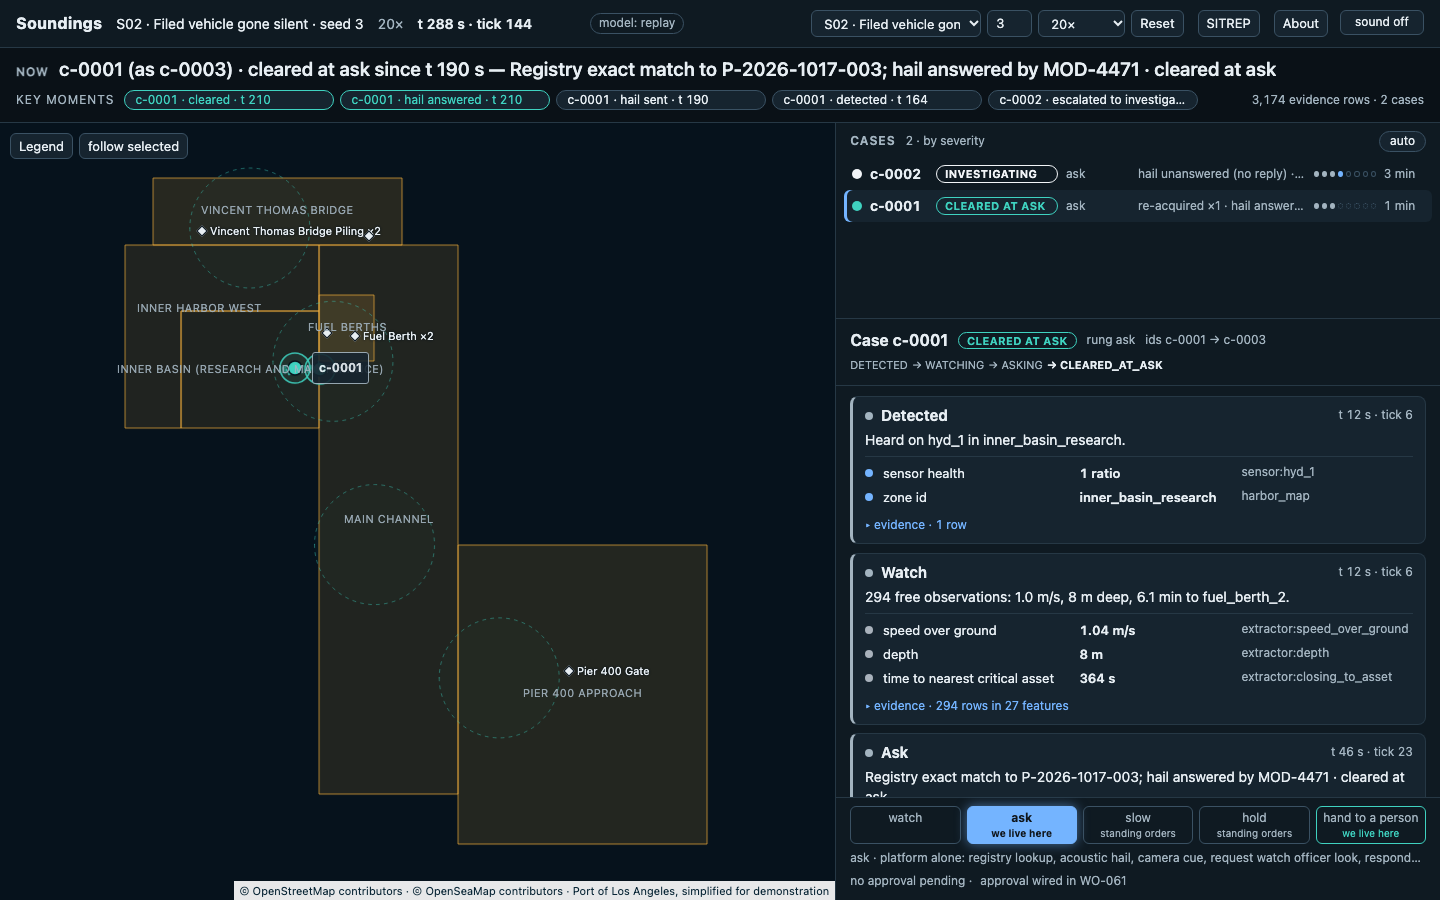
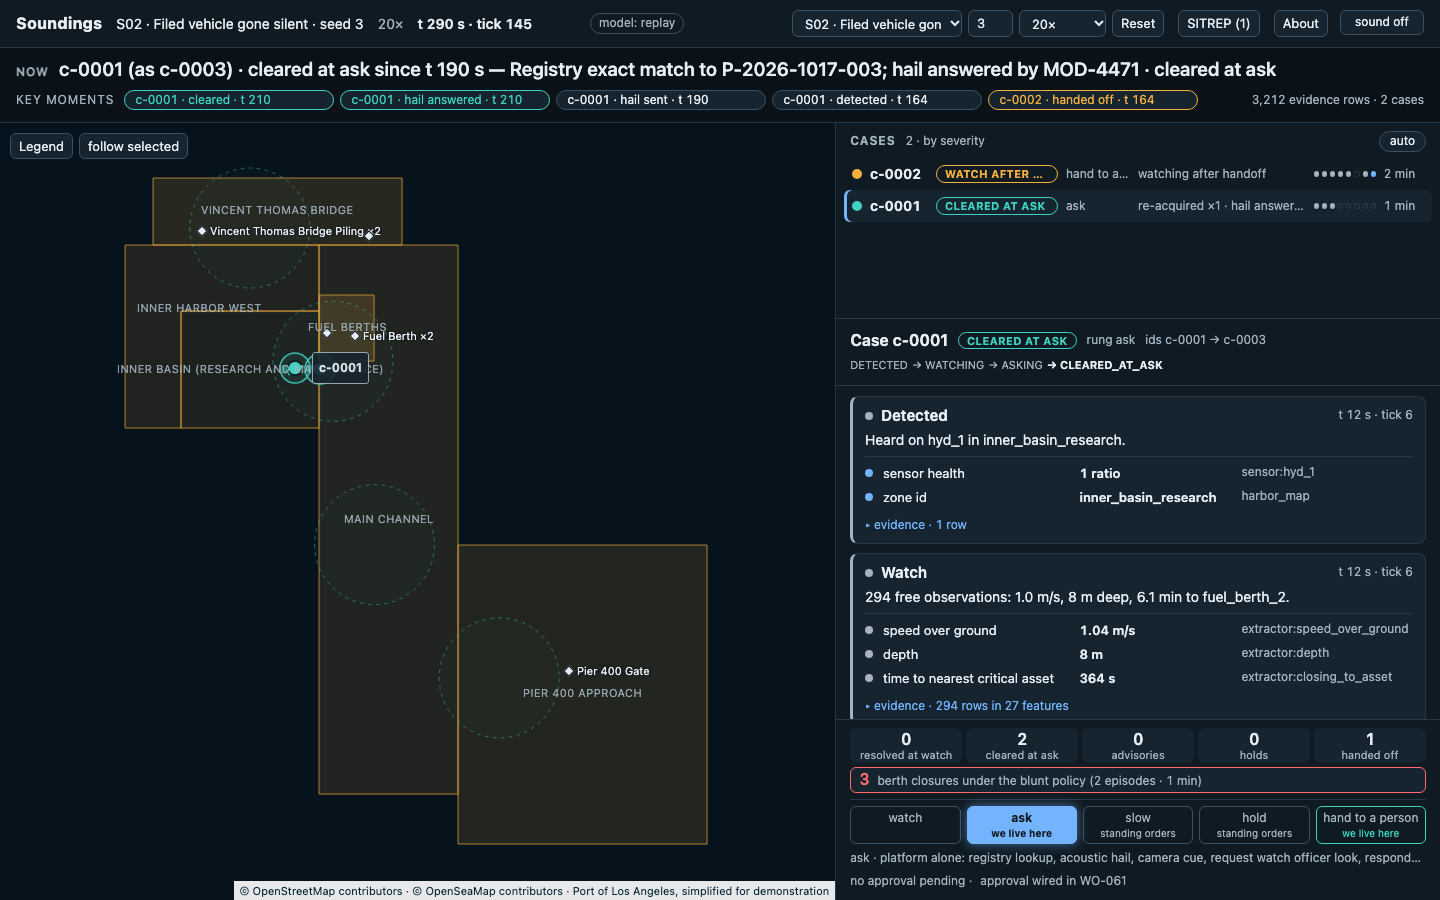
docs: STATE sweep, hourly STATUS line, README screenshots over runner v3

diff --git a/scripts/readme_shots.py b/scripts/readme_shots.py
@@ -113,10 +113,13 @@ def capture(base: str, out: Path, executable_path: str | None) -> None:
 
         page = _page(browser)
         page.goto(f"{base}/?scenario=S05&seed=11&speed=20&tiles=off")
+        # Over runner v3 (WO-060 part B) the auto-selected case is the re-acquired lineage
+        # on the ladder, so pin the case that is investigating (c-0006 at about t 1,150 s).
+        row = "[data-testid=case-row]:has-text('INVESTIGATING')"
+        page.wait_for_selector(row, timeout=120_000)
+        page.locator(row).first.click()  # pin the case so it holds still
         step = "[data-testid=case-view] [data-step=investigate][data-status=current]"
-        page.wait_for_selector(step, timeout=120_000)
-        page.wait_for_timeout(1_500)
-        page.locator("[data-testid=case-row]").first.click()  # pin the case so it holds still
+        page.wait_for_selector(step, timeout=15_000)
         page.wait_for_timeout(400)
         page.locator(step).first.evaluate("el => el.scrollIntoView({block: 'start'})")
         page.wait_for_timeout(400)

diff --git a/docs/STATE.md b/docs/STATE.md
@@ -3,10 +3,10 @@
 Last updated: 2026-10-17 06:38 PDT (truth-first rewrite; Phase 7 'ATC at scale' + eval/model-run directives accepted)
 
 ## Where we are (2026-10-17 06:38 PDT)
-- **Merged on `main`** (CI green, ≈2,300 tests, zero paid runs; 54 PRs by 11:45 PDT): Phases 0–4 complete; Phase 5 WO-050, WO-051 A + B1; Phase 6 WO-060 A + design pass (#58), WO-062 A + presenter mode (#35); Phase 7 WO-081 (#34), WO-082 (#46), WO-083 (#44), WO-084 (#31), WO-086 (#62), WO-087 (#47), WO-088 A/B/C (#53/#54/#51), WO-089 core + UI (#40/#49); WO-093 fixture harness (#61) + transport JSON parse fix (#68); WO-094 re-acquisition carry-over (#60: S04 ends RESOLVED_BENIGN by lineage, catalog verifier passes every scenario, 0 xfails); deck/Devpost (#30), README (#29), mentor brief (#28); boundary + no-external-references (#45); pytest-xdist CI (#67, CI ≈4 min).
-- **PRs open, CI/rebase cycling:** WO-080 BT-01 part A (#33) and part B (#55), WO-089 code half (#57), WO-094 re-acquisition carry-over (#60), WO-051 part B eval sweeps (#63), WO-060 part B (#64), WO-085 surge triage (#65), WO-088 part D responder integration (#66). CI timed out at the 15-minute job limit once BT-01 switched on slow tests; pytest-xdist (#67) brought a run down to about four minutes, and every open PR is re-based or re-merged onto main to pick it up.
-- **Running:** agents on WO-051B, WO-060B (then WO-061), WO-085, WO-088D, WO-094, WO-089 code half; the coordinator babysits PRs whose agents have returned (#33, #55, #57): merge `main` in when behind, never rebase a branch that carries merge commits.
-- **Not started:** WO-061 judge panel / approval path / QR / badge (after WO-060B), WO-062 part B recording (after Wave D merges; render deadline 20:00), Twist 2 and 3 (notices not yet received).
+- **Merged on `main`** (CI green, ≈2,300 tests, zero paid runs; 54 PRs by 11:45 PDT): Phases 0–4 complete; Phase 5 WO-050, WO-051 A + B1; Phase 6 WO-060 A + design pass (#58), WO-062 A + presenter mode (#35); Phase 7 WO-081 (#34), WO-082 (#46), WO-083 (#44), WO-084 (#31), WO-086 (#62), WO-087 (#47), WO-088 A/B/C (#53/#54/#51), WO-089 core + UI (#40/#49); WO-093 fixture harness (#61) + transport JSON parse fix (#68); WO-060 part B run engine over runner v3 (#64); WO-080 BT-01 part A (#33); WO-094 re-acquisition carry-over (#60: S04 ends RESOLVED_BENIGN by lineage, catalog verifier passes every scenario, 0 xfails); deck/Devpost (#30), README (#29), mentor brief (#28); boundary + no-external-references (#45); pytest-xdist CI (#67, CI ≈4 min).
+- **PRs open, CI/rebase cycling:** WO-095 (#73), this docs PR (#71). CI timed out at the 15-minute job limit once BT-01 switched on slow tests; pytest-xdist (#67) brought a run down to about four minutes, and every open PR is re-based or re-merged onto main to pick it up.
+- **Running:** the WO-062B recording agent (launched 16:21); the coordinator babysits the remaining PRs (#73 WO-095, #71 this docs PR): merge `main` in when behind, never rebase a branch that carries merge commits.
+- **Not started:** Twist 2 and 3 (notices not yet received).
 - **Incident:** the Mac slept 01:52–05:37 PDT (lid closed on battery); nothing on `main` was affected. Caffeinate runs until 17:00 PDT; keep the lid open and plug in.
 - Lens declared at submission: Crisis Mitigation (Track 01 Marine, NULL Labs).
 
@@ -46,25 +46,25 @@ Clock: submission 10:00 PM; freeze non-demo work 6:00 PM; hard freeze 8:30 PM; f
 | 042 | sitrep + handoff + audit | merged (part A #18, 77e5b48; part B #37) | wo/042b-sitrep-writer-handoff (part B) | #37 | squash on merge | 1734 passed after rebase (part B: test_sitrep +17, test_audit +4) |
 | 043 | watch after handoff | merged (part A #26 8fee1bb; part B runner v3 #50 31c0223: approvals path, catalog verifier; S04 catalog verify strict xfail → WO-094) | wo/043b-runner-v3 | #26, part B PR | part A 8fee1bb; part B squash | part B: test_runner_v3 20, test_catalog_expected 11 (S04 strict xfail), +9 in driver/watch tests |
 | 050 | baselines | merged | wo/050-baselines | #13 | f2e8bc3 | 979 passed (29 baselines) |
-| 051 | eval harness | part A merged (#24); part B1 merged (#43); part B (soundings policy over runner v3, sweeps 2a-2e, per-contact table, `make eval` ~2 min) PR open (auto-merge); >= 70% at-or-below-ask reads 66.7% on main (S04 seeds 1-2, S08 seeds 1, 2, 5), xfail with the real number | wo/051-eval-harness | see PR | squash on merge | see PR (part B: test_soundings_policy, test_eval_llm_diff, test_eval part B) |
-| 060 | watch-officer UI | part A merged; design pass B1 merged; part B (runner v3 source `v3`, investigation/posterior/recommendation/ladder/approval/SITREP events, stage live wiring) PR open (auto-merge) | wo/060a-ui-core; wo/060b3-design-pass; wo/060-watch-officer-ui | #20, #58, part B see PR | cf94706 (B1) | part B: 2307 passed, 23 skipped, 3 xfailed; test_stream_v3 22, test_stage_live_wiring 5; e2e (SOUNDINGS_E2E=1) 5 passed incl. test_v3_case_view 3, design-pass CLS 0.0049 |
-| 061 | judge panel | PR open (auto-merge on green) 2026-10-17 13:25 PDT; stepped source (runner v3, a person approves), POST /api/runs/{id}/approve + /decline, approval card (scope, time left, Approve / Decline), judge panel (place, behavior, acoustic, Go; prepare-while-choosing for the 2 s follow), POST /api/inject + /api/inject/prepare, QR to the registry form, plan layer + proposal card (WO-082), `make dev-lan`, presenter actions file_plan_qr / judge_drops_rogue | wo/061-judge-panel | see branch PR | | test_inject 30, test_api_inject 10, test_api_approve 8, test_stepped_source 7, test_api_qr 8; e2e (SOUNDINGS_E2E=1) approval 1, judge panel 1, judge QR 2 |
-| 062 | demo runner | part A + presenter mode merged; recording (part B) pending | wo/062a-demo-runner-core; wo/062p-presenter-mode | #21; WO-062P see branch PR | 39c22eb (part A) | part A 53; WO-062P: test_demo_script 29, test_presenter_api 5, test_sfx 12, e2e presenter smoke 1 |
-| 080 | Busy Tuesday scenario BT-01 | part A merged (#33); part B (tick skipping, runtime, determinism) in PR | wo/080-busy-tuesday-b | #33 + part B PR | see #33 | part A 56 tests; part B +28 tick-skipping, +6 BT-01, +3 rules; BT-01 33.7 s headless |
+| 051 | eval harness | merged (part A #24; B1 #43; part B eval over runner v3 #63 5de1002: soundings policy, sweeps, seeds, scale, report; `make eval` 3 min 55 s) | wo/051-eval-harness | see PR | squash on merge | see PR (part B: test_soundings_policy, test_eval_llm_diff, test_eval part B) |
+| 060 | watch-officer UI | merged (part A #20; design pass #58; part B run engine over runner v3 #64 2dee825) | wo/060a-ui-core; wo/060b3-design-pass; wo/060-watch-officer-ui | #20, #58, part B see PR | cf94706 (B1) | part B: 2307 passed, 23 skipped, 3 xfailed; test_stream_v3 22, test_stage_live_wiring 5; e2e (SOUNDINGS_E2E=1) 5 passed incl. test_v3_case_view 3, design-pass CLS 0.0049 |
+| 061 | judge panel | merged (#72 cb916d5, 16:20 PDT): approval path (UiApprover, stepped source), judge-injection panel, QR plan filing with proposal card, model badge | wo/061-judge-panel | see branch PR | | test_inject 30, test_api_inject 10, test_api_approve 8, test_stepped_source 7, test_api_qr 8; e2e (SOUNDINGS_E2E=1) approval 1, judge panel 1, judge QR 2 |
+| 062 | demo runner | part A + presenter mode merged; part B recording agent launched 16:21 PDT (render deadline 20:00) | wo/062a-demo-runner-core; wo/062p-presenter-mode | #21; WO-062P see branch PR | 39c22eb (part A) | part A 53; WO-062P: test_demo_script 29, test_presenter_api 5, test_sfx 12, e2e presenter smoke 1 |
+| 080 | Busy Tuesday scenario BT-01 | part A merged (#33 368d00f, 12:30 PDT); part B PR #55 open (tick skipping, --plans db, runtime < 60 s): its CI run reached 85 % at the 15-minute job cut twice, so #70 raises the job timeout to 30 min and #55 re-runs after it. BT-01: 39 filed jobs CLEARED_AT_ASK with 0 interruptions, rogue HANDED_OFF, seed-7 runs byte-identical. WO-082's slot test on the real BT-01 found every component INFEASIBLE (filing windows padded 5 min): accepted as the honest refusal, WO-095 widens the windows. | wo/080-busy-tuesday-b | #33 + part B PR | see #33 | part A 56 tests; part B +28 tick-skipping, +6 BT-01, +3 rules; BT-01 33.7 s headless |
 | 080 | Busy Tuesday scenario BT-01 | part A in PR (schema, vessel_transit + AIS feed, generator, BT-01, grading); part B next | wo/080-busy-tuesday | see branch PR | | part A: 56 new tests (vessel 28, generate 13, busy_tuesday 6, rules 9) |
-| 081 | conflict detection at filing | PR open (auto-merge on green); JobType via local adapter until WO-080 part A | wo/081-conflict-detection | see branch PR | | 1546 passed, 1 skipped (52 WO-081 tests) |
-| 082 | slot proposal (CP-SAT) | PR open (auto-merge on green) | wo/082-slot-proposal | see PR | | 1823 passed, 2 skipped (38 WO-082 tests: test_slots 20, test_slots_api 12, test_slots_integration 2, e2e 1, +3 START_BOUNDS_INVALID reject cases) |
-| 083 | separation advisories (CPA/TCPA) | PR open (auto-merge) | wo/083-separation-advisories | see PR | | make check green; 25 WO-083 tests (BT-01 cases skip until WO-080 part A merges) |
-| 084 | projected tracks (Kalman) | PR open (flag flipped to kalman for build_evidence; runner stays window) | wo/084-projected-tracks | see PR | | 1436 passed (24 test_kalman*) |
+| 081 | conflict detection at filing | merged (#34 a03ec4b); JobTypeName local adapter → swap for `schemas.enums.JobType` once BT-01 (#33) lands | wo/081-conflict-detection | see branch PR | | 1546 passed, 1 skipped (52 WO-081 tests) |
+| 082 | slot proposal (CP-SAT) | merged (#46 5d04a02) | wo/082-slot-proposal | see PR | | 1823 passed, 2 skipped (38 WO-082 tests: test_slots 20, test_slots_api 12, test_slots_integration 2, e2e 1, +3 START_BOUNDS_INVALID reject cases) |
+| 083 | separation advisories (CPA/TCPA) | merged (#44 21194f6); BT-01 separation tests un-skip when #33 lands | wo/083-separation-advisories | see PR | | make check green; 25 WO-083 tests (BT-01 cases skip until WO-080 part A merges) |
+| 084 | projected tracks (Kalman) | merged (#31 73b79c4; flag kalman for build_evidence, runner stays window) | wo/084-projected-tracks | see PR | | 1436 passed (24 test_kalman*) |
 | 080 | Busy Tuesday scenario BT-01 | part A PR #33 and part B PR #55 open (auto-merge on green; agent returned 11:33 PDT, coordinator babysits). BT-01: 39 filed jobs CLEARED_AT_ASK with 0 interruptions, rogue HANDED_OFF, seed-7 runs byte-identical, < 60 s with tick skipping. CI needed pytest-xdist (#67) to finish inside the 15-minute limit; after WO-094 merged, WO-082's BT-01 slot test showed every component INFEASIBLE (filing windows padded 5 min, no plan can move): test now accepts the honest refusal, follow-up WO-095 widens the windows. | wo/080-busy-tuesday | | | |
 | 081 | conflict detection at filing | merged (#34 a03ec4b); JobTypeName local adapter → swap for `schemas.enums.JobType` once BT-01 (#33) lands | wo/081-conflict-detection | see branch PR | | 1546 passed, 1 skipped (52 WO-081 tests) |
 | 082 | slot proposal (CP-SAT) | merged (#46 5d04a02) | wo/082-slot-proposal | see PR | | 1823 passed, 2 skipped (38 WO-082 tests: test_slots 20, test_slots_api 12, test_slots_integration 2, e2e 1, +3 START_BOUNDS_INVALID reject cases) |
 | 083 | separation advisories (CPA/TCPA) | merged (#44 21194f6); BT-01 separation tests un-skip when #33 lands | wo/083-separation-advisories | see PR | | make check green; 25 WO-083 tests (BT-01 cases skip until WO-080 part A merges) |
 | 084 | projected tracks (Kalman) | merged (#31 73b79c4; flag kalman for build_evidence, runner stays window) | wo/084-projected-tracks | see PR | | 1436 passed (24 test_kalman*) |
-| 085 | surge triage queue | PR open (auto-merge on green); triage opt-in (`ScenarioRunner(triage=...)`, off by default, catalog byte-identical); BT-01 not on main yet, exit tests run on the synthetic stand-in `tests/fixtures/triage_bt_synthetic.yaml`; interruptions/h clause recorded as xfail (open question) | wo/085-surge-triage | see branch PR | | make check green; 58 WO-085 tests (test_triage 34, test_triage_runner 17 incl. 1 xfail, test_triage_rules 7) |
+| 085 | surge triage queue | merged (#65 6a3c775): surge triage queue, officer channel, contact_surge wiring | wo/085-surge-triage | see branch PR | | make check green; 58 WO-085 tests (test_triage 34, test_triage_runner 17 incl. 1 xfail, test_triage_rules 7) |
 | 086 | rung ledger + blunt counter UI | merged (#62 a10e566) | wo/086-rung-ledger | see branch PR | | test_ledger 16 + test_ledger_integration 4 (3 skip) + e2e ledger smoke 1 (opt-in); full suite in PR |
 | 087 | bounded live mode (stage) | merged (#47 e355616); default replay, enabled Sunday only by `approve paid run stage live budget 40` | wo/087-bounded-live-mode | see branch PR | | 1907 passed, 1 skipped, 2 xfailed (test_live_mode 44, test_api_model_mode 5, test_audit -k llm_path 3) |
-| 089 | physics cards (sonar-equation detection, sourced physics config, About -> Physics, live range rings) | merged: UI half #49 (4202721), code half #57 (squash on merge). Physics config, `soundings/physics.py`, cards, rings, hail and camera laws are live; the sonar-equation detection model is implemented and tested but `detection.model` stays `gaussian` (runner v3's S05 HOLDING check fails under sonar; DECISIONS 10:30). Next: re-tune k/alpha against runner v3, fix the blocked-step audit key, flip the default. BT-01 ring test waits for #33 | wo/089b-physics-ui-deck, wo/089c-physics-core-code | #40 (docs), #49, #57 | 4202721 (UI), #57 squash (code) | code: 2415 passed, 14 skipped |
+| 089 | physics cards (sonar-equation detection, sourced physics config, About -> Physics, live range rings) | merged: UI half #49 4202721, core config #40, code half #57 374a6c5 (sonar equation implemented and tested; Gaussian stays the shipped default: sonar breaks S05 passes_through HOLDING under runner v3) | wo/089b-physics-ui-deck, wo/089c-physics-core-code | #40 (docs), #49, #57 | 4202721 (UI), #57 squash (code) | code: 2415 passed, 14 skipped |
 | 093 | fixture recording harness (plan / record gated / verify; planner ablation entry point) | merged (#61 805baed); plan = 74 calls (BT-01 pending); fence-tolerant reply parsing merged (#68) | wo/093-fixture-recording-harness | see branch PR | squash on merge | make check green; 2204 passed (test_fixture_harness 22, test_ablation 6) |
 | 090 | deck + Devpost fields | merged (#30 0cdaa0d); final numbers pass at 20:00 | wo/090-deck-devpost | | | 1515 passed (28 tests/test_deck.py) |
 | 092 | mentor brief | merged (#28 bc10e3e) | wo/092-mentor-brief | | | see PR (test_mentor_brief 8) |
@@ -112,3 +112,4 @@ None. See `docs/log/PAID-RUNS.md`.
 - **2026-10-17 09:28 PDT** · Merged since 08:35: WO-033B runner v2 (#36), WO-042 audit commit semantics (#42), WO-051 B1 eval archives/families/grader/traps (#43), WO-083 separation advisories (#44), WO-089 UI half: physics panel + live range rings + deck card (#49), boundary test + no-external-references sweep with CI grep (#45), docs #39/#40/#41/#52; 41 PRs merged, CI green, ≈1,965 tests, zero paid runs. Open: WO-043B runner v3 (#50), WO-080 A/B (#33/#55), WO-082 CP-SAT (#46), WO-087 live mode (#47), WO-088 responder A/B/C (#53/#54/#51). Running: WO-089 physics core (code half, relaunched), WO-060 B1 design pass (gated on #51). ETA unchanged from 08:35: Harbor Night beat in the UI ≈ 11:15 · Busy Tuesday beats ≈ 12:00 · full presenter run ≈ 12:30 · fixture gate ≈ 12:30 · recording ≈ 13:30–14:00. Slips: none. Risks: merge-queue drain under the strict rule (≈ 5 min per PR); S04 re-acquired-track xfail; WO-089 model core landed docs only on its first pass (code half now building). Owner feedback 09:05 (UI legibility) → WO-060 B1 design pass.
 - **2026-10-17 10:25 PDT** · Merged since 09:30: WO-087 bounded live mode (#47), WO-088 responder UI (#51) and probes/guards/beats (#54), WO-082 CP-SAT slots (#46), WO-043B runner v3 (#50: S05 advisory → hold → approval → HANDED_OFF, threat mass 0.79; S02 box contains truth; unreachable path pages backup and releases at limit; catalog verifier), STATUS #56; 48 PRs merged, CI green, ≈2,140 tests, zero paid runs. Open: WO-080 A/B (#33/#55), WO-088A responder sim (#53), WO-089 physics core (#57), WO-060 B1 design pass v3 (#58). Running: WO-051B eval over runner v3 + sweeps, WO-085 triage queue, WO-086 rung ledger, WO-060B UI events + stage live wiring → WO-061 approval/judge/QR (gated on #58), WO-093 fixture-recording harness, WO-094 re-acquisition carry-over (fixes the S04 lineage xfail that would cost the 70% claim). ETA: redesigned case-centric screen ≈ 11:00 · Harbor Night beat in the UI ≈ 11:30 · Busy Tuesday beats ≈ 12:15 · full presenter run ≈ 12:45 · fixture gate when the owner is back (~12:00–12:30) · recording ≈ 13:45–14:15. Slips: UI pieces +15–30 min versus 09:30 (design pass restarted twice on owner feedback; worth it). Risks: S04 re-acquisition (WO-094 in flight); queue drain under the strict rule; BT-01 part B CI failure being fixed by its agent.
 - **2026-10-17 12:02 PDT** · Merged since 10:30: WO-086 rung ledger (#62), WO-093 fixture harness (#61), WO-094 re-acquisition carry-over (#60; S04 RESOLVED_BENIGN by lineage, catalog verifier green, 0 xfails), pytest-xdist CI (#67; a run went from a 15-minute timeout to about 4 min), transport fence-tolerant parsing (#68). 56 PRs merged, ≈2,300 tests, zero paid runs. Fixture plan ready: 74 calls, gate line in the Fixture-run paragraph; owner due about 12:00 for the one paid run. Slips: BT-01 (#33) lost ~1 h to the CI timeout and to one real break (WO-082 slot test vs the real BT-01: every component INFEASIBLE because filing windows are padded 5 min; test now accepts the honest refusal, WO-095 widens the windows); WO-085 triage, WO-051B, WO-060B, WO-088D, WO-089 code half still in their agents' hands. Next: BT-01 merge → re-run `plan` → paid run; WO-061 after WO-060B; WO-062B recording after Wave D.
+- **2026-10-17 16:22 PDT** · Merged since 13:40: BT-01 part B (#55, WO-080 complete), CI job timeout 30 min (#70), WO-051B eval over runner v3 (#63), WO-089 physics code (#57; sonar equation implemented, Gaussian stays the shipped default), WO-085 surge triage + officer channel (#65). 67 PRs merged. `make eval` on main: 3 min 55 s; soundings policy over 5 seeds and 45 ground-truth contacts: 68.9 % at or below ask, 0 missed threats, 0 false shutdowns, median 58 s seen→handled, 10.9 interruptions/h, 15 shutdown-minutes (blunt policy: 433 false shutdowns, 1,293 shutdown-minutes); the deck builds from report.json. CI: the suite reached 2,700 tests and 29 min on one runner (PR #72 passed every test, then hit the job limit in the web build) → #74 splits CI into parallel jobs behind the same required `check`. WO-095 returned under the 15:00 drop rule: Busy Tuesday is over-subscribed for capacity 2 under any window (70–123 slot-hours filed per zone vs 34 available); proposals stay honest refusals there, the video's slot beat runs on S01 (PR #73 queued). WO-061 (#72, approval path / judge panel / QR / badge) merged 16:20; the WO-062B recording agent launched 16:21 (render deadline 20:00). CI is now parallel jobs (#74 merged; shards 7.5 / 13 / 6 min). Paid fixture run: still no key or phrase from the owner. Next: #73 → this docs PR → video render → 20:00 deck/DEVPOST numbers pass.
